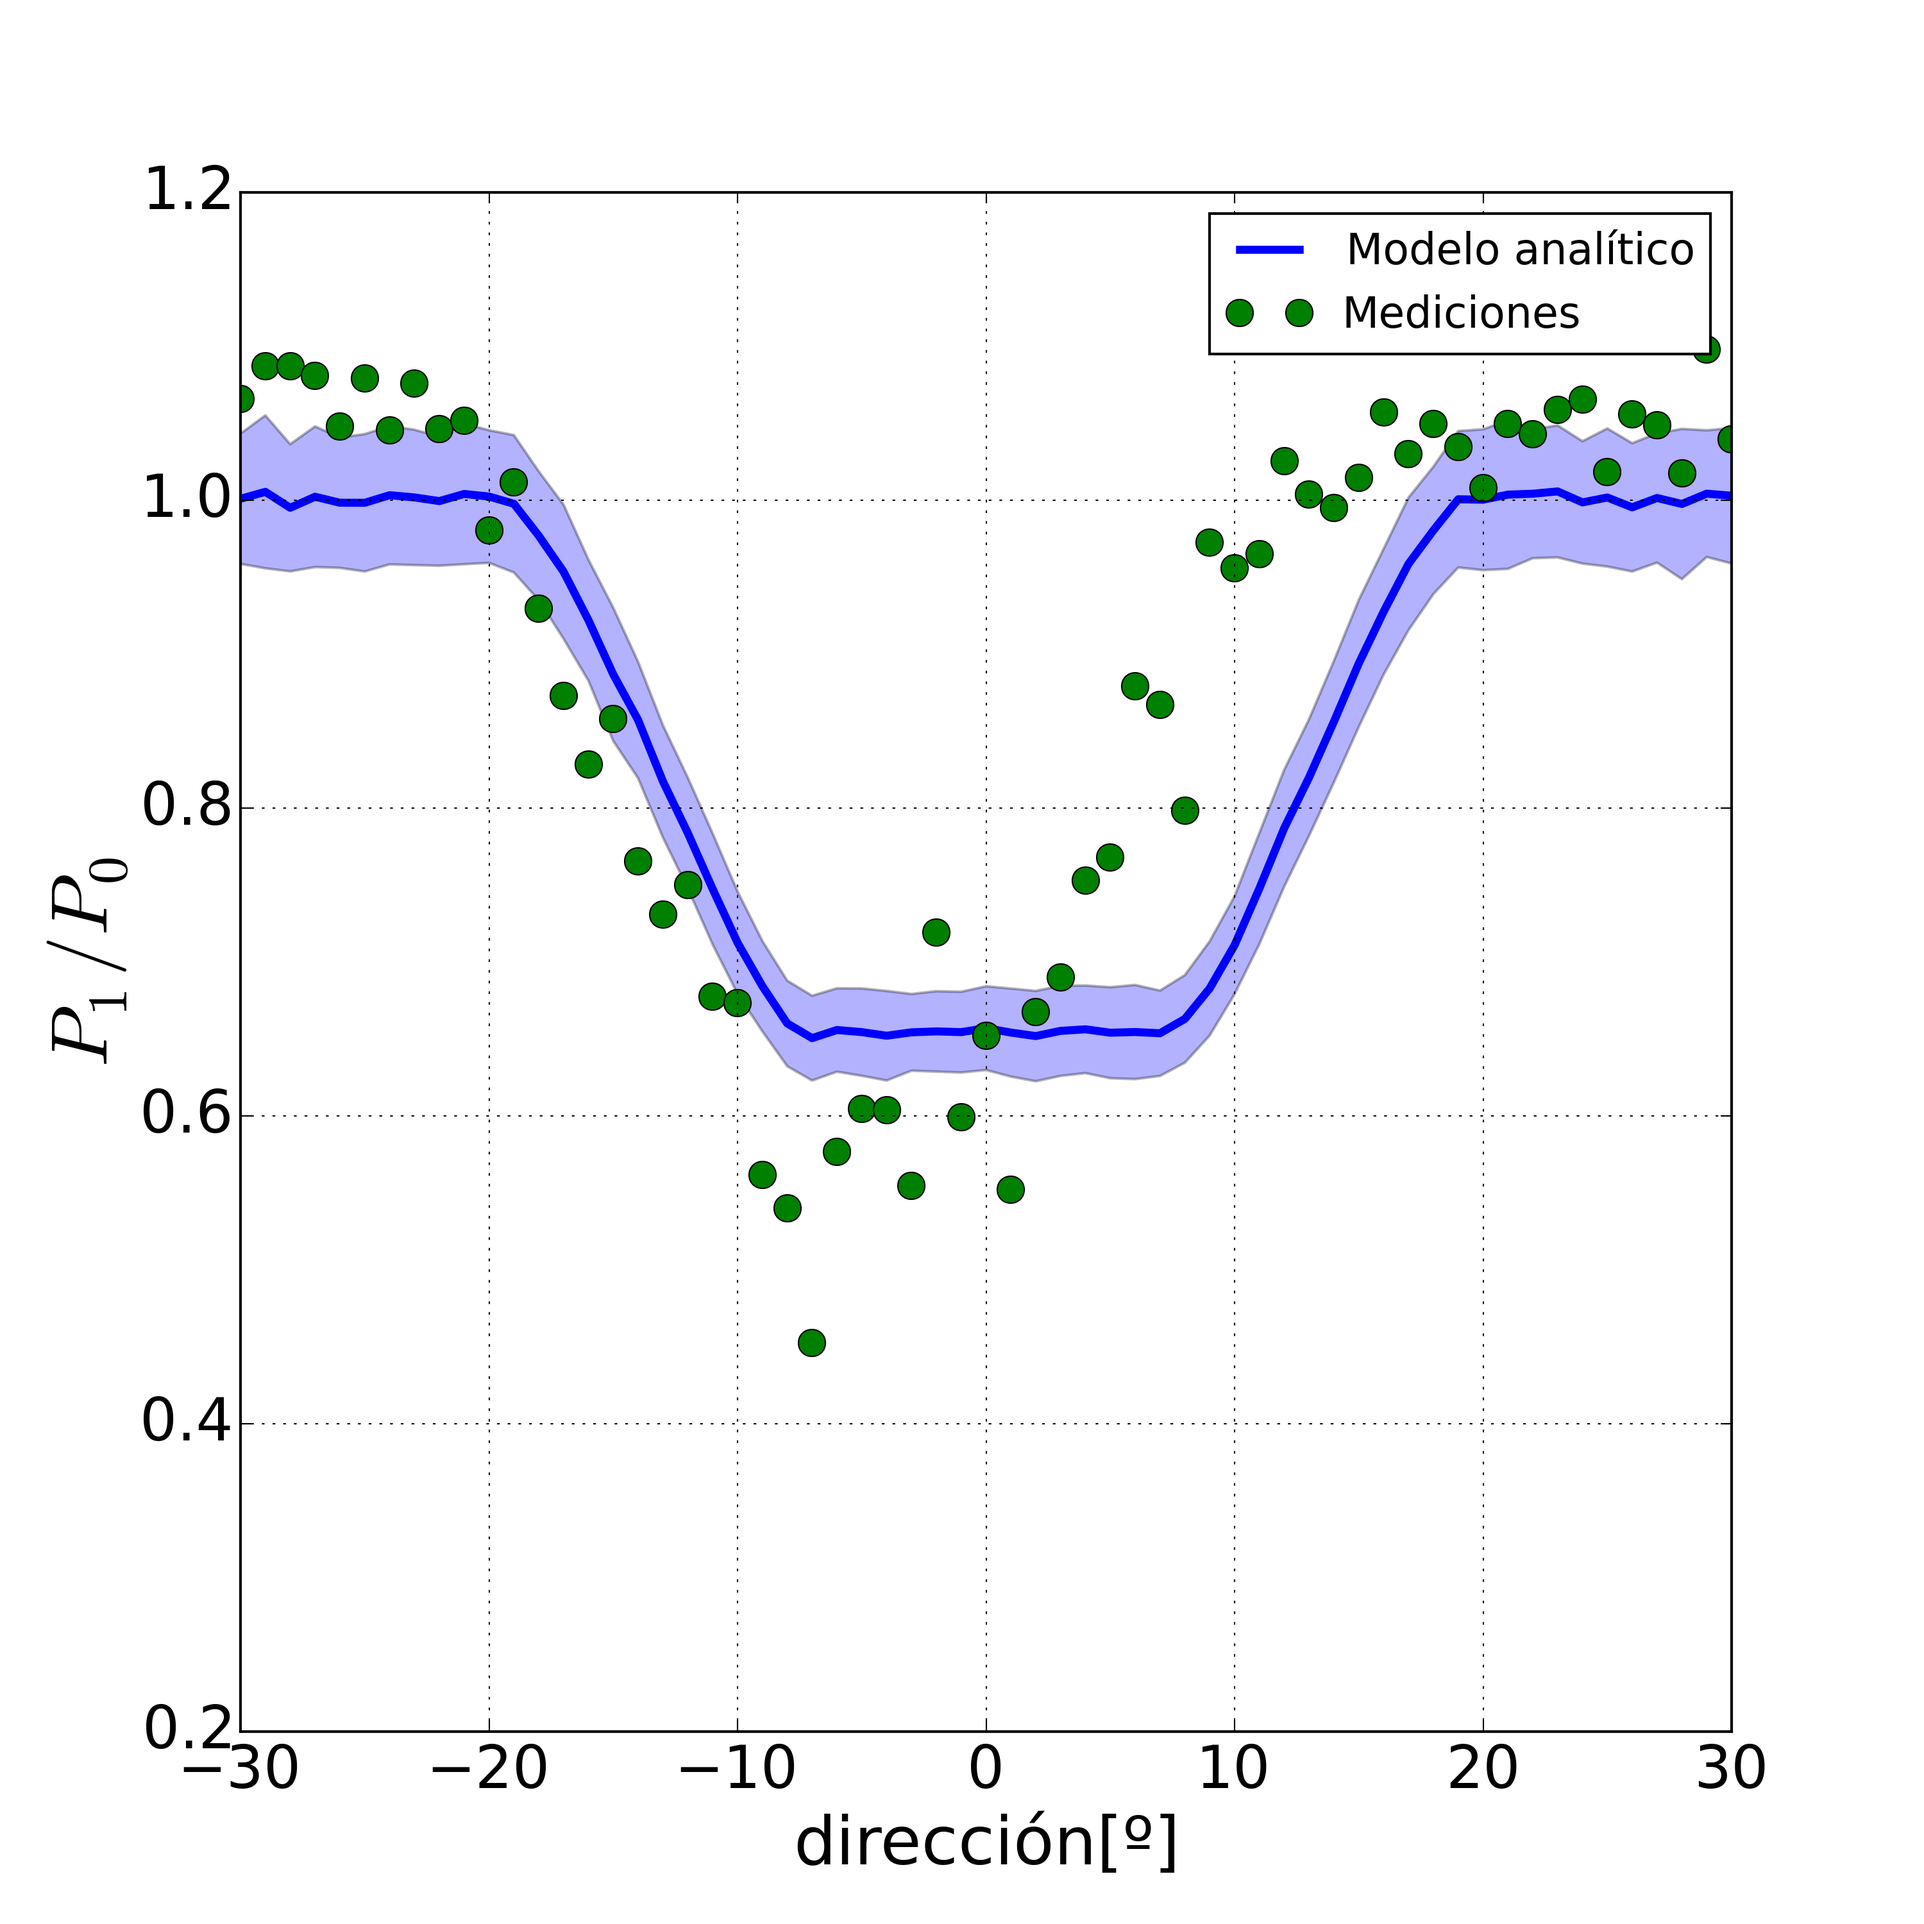
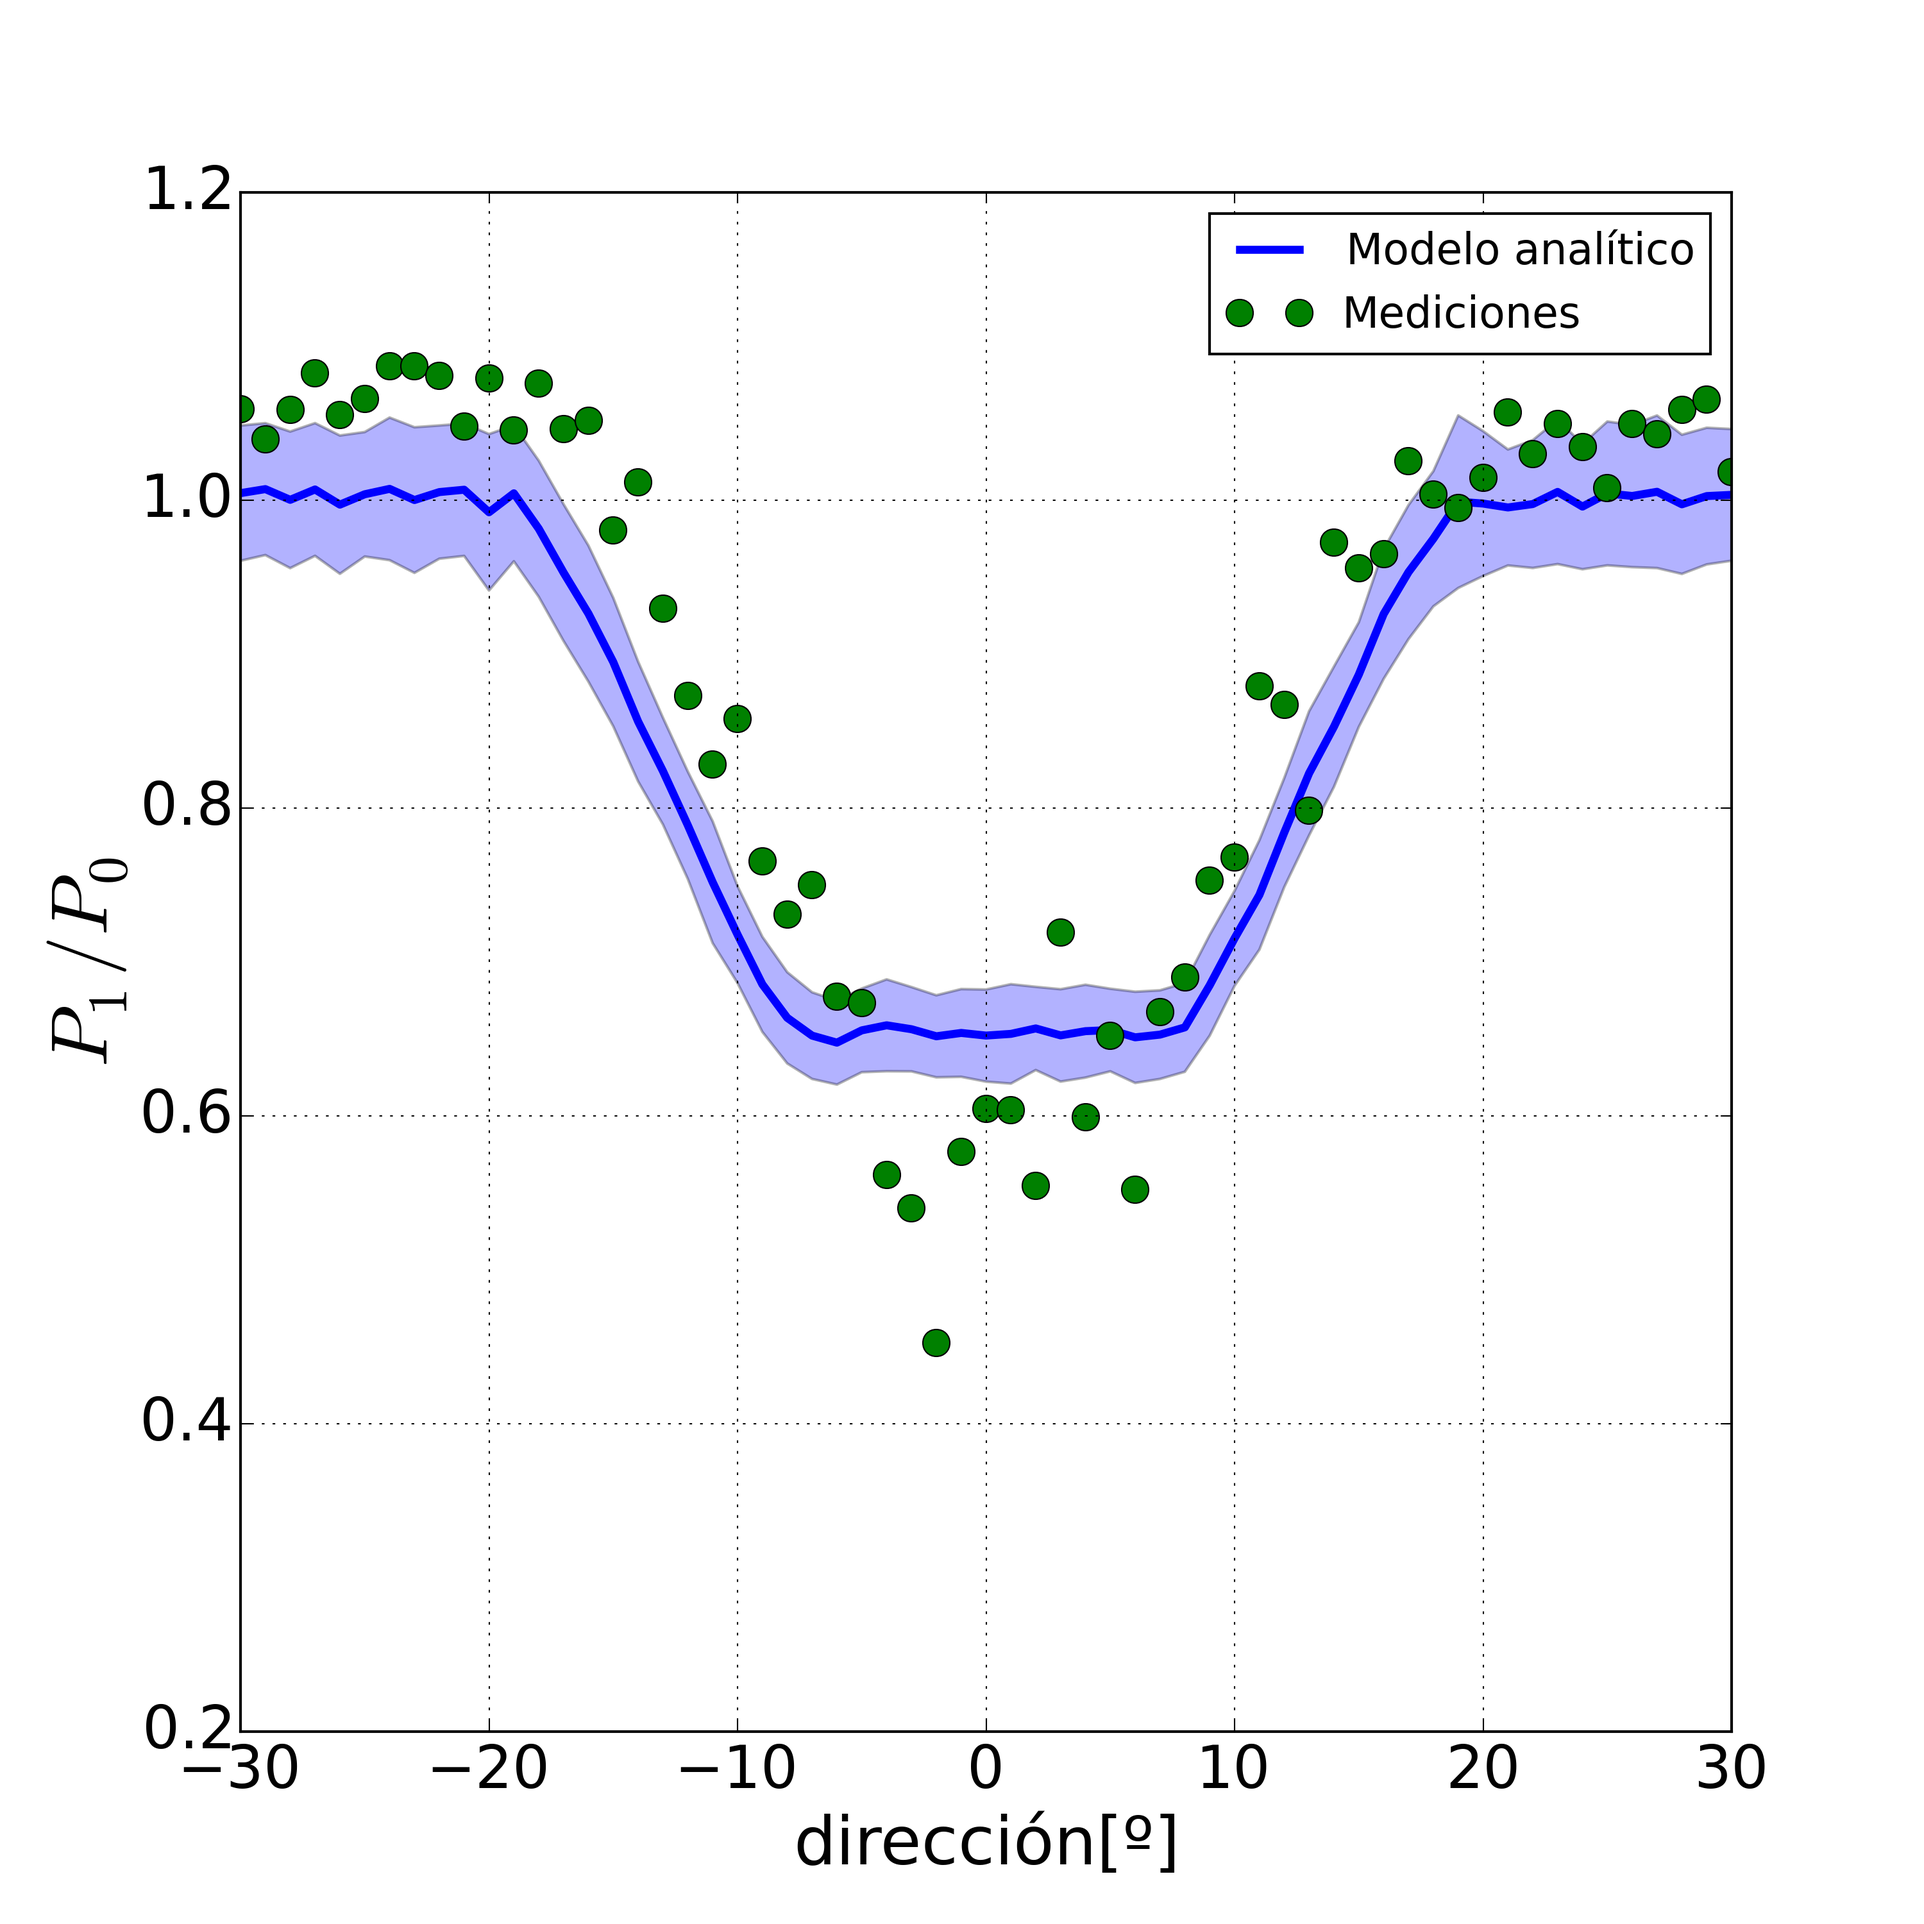
prueba_potencia_Rawson_bien.py terminada

diff --git a/src/nueva_implementacion/mediciones_potencia_Rawson_bien.py b/src/nueva_implementacion/mediciones_potencia_Rawson_bien.py
@@ -82,13 +82,19 @@ ratio_medido = []
 
 tur_down = 7
 tur_up = 8
-centro = 320
+centro = 315
 
 medido = np.loadtxt('med_{}_{}_{}.csv'.format(tur_down, tur_up, centro), delimiter = ' ')
 
-angulos_medido = medido[0,290:351]
-ratio_medido = medido[1,290:351]
-std_medido = medido[2,290:351]
+# angulos_medido = medido[0,290:351]
+# ratio_medido = medido[1,290:351]
+# std_medido = medido[2,290:351]
+
+angulos_medido = medido[0,285:346]
+ratio_medido = medido[1,285:346]
+std_medido = medido[2,285:346]
+# import pdb; pdb.set_trace()
+
 
 precision_ang_medido = 1
 angulos_medido = angulos = np.arange(-30, 30 + precision_ang_medido, precision_ang_medido)
@@ -96,7 +102,7 @@ angulos_medido = angulos = np.arange(-30, 30 + precision_ang_medido, precision_a
 precision_ang = 1
 angulos = np.arange(-30, 30 + precision_ang, precision_ang)
 
-iters_estadistica = 200
+iters_estadistica = 100
 
 metodo_array = ['linear', 'rss', 'largest']
 metodo_label = {'linear': 'Lineal', 'rss': 'Cuadratica', 'largest':'Dominante'}

diff --git a/turbinasRawson gonza 10 julio/deficitTurbinas.py b/turbinasRawson gonza 10 julio/deficitTurbinas.py
@@ -240,7 +240,7 @@ tablaOk = rawsonDatos(archivo)
 #ploteo el deficit medido
 tur_down=7
 tur_up=8
-centro=320 #la direccion donde se produce el maximo deficil
+centro=315 #la direccion donde se produce el maximo deficil
 DirAd_Medido, deffMean_Medido, deffstd_Medido = deficitMedido(tablaOk,tur_down,tur_up,centro)
 
 with open('med_{}_{}_{}.csv'.format(tur_down, tur_up, centro), 'wb') as csvfile:
